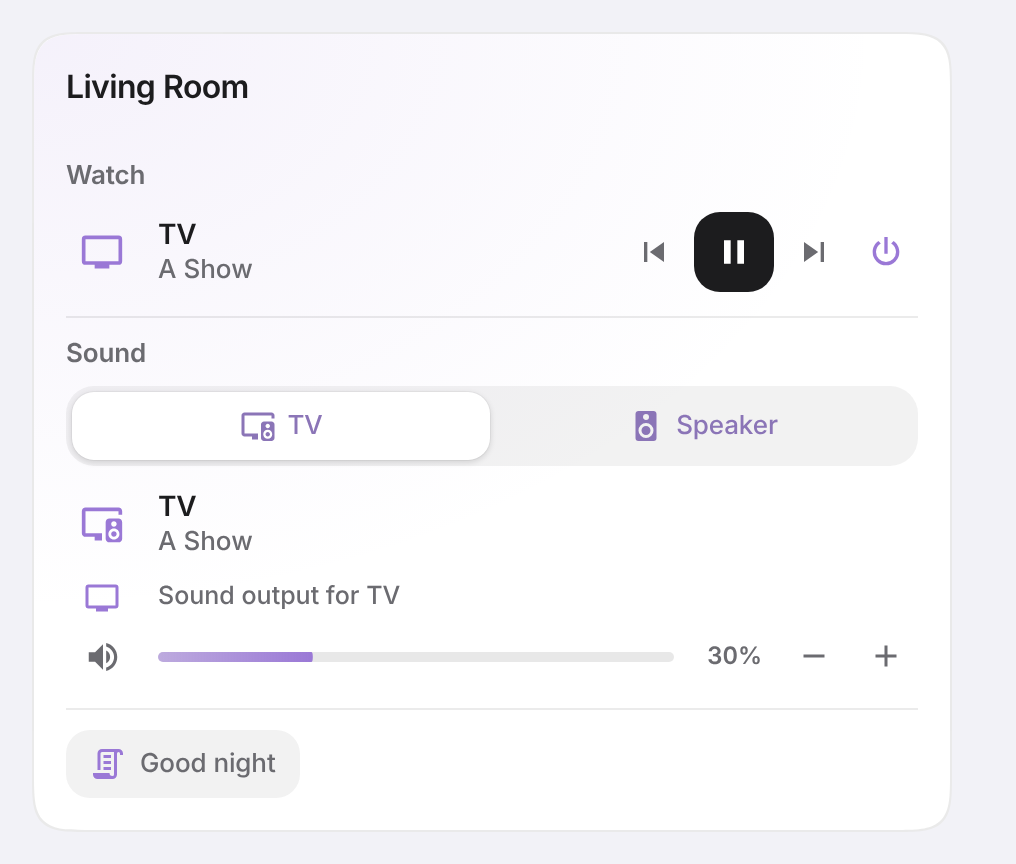
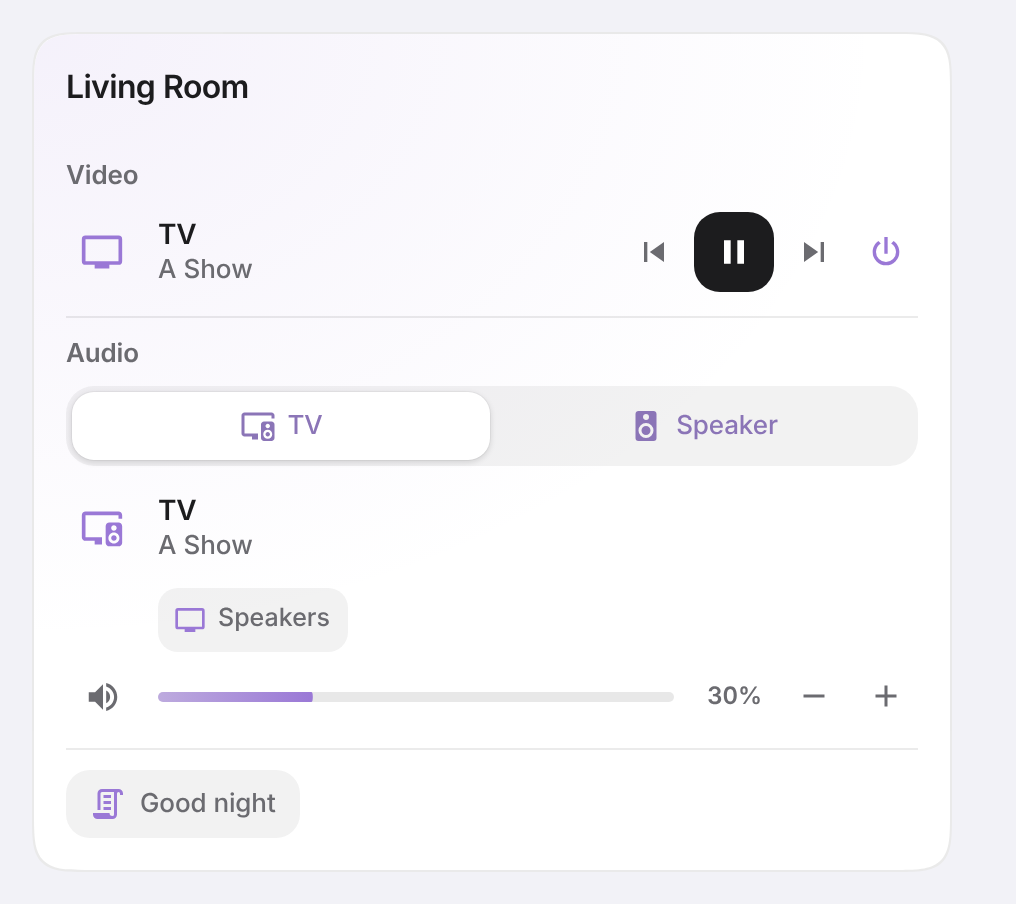
Media: short sound switches on one line under the name; switching sounds never jumps in height
The TV's sound output and the box's source are two small buttons aligned with the row's name, their full meaning in their labels. The row leaving goes at once instead of fading over the next, every sound row is as tall as its play key, and a picker that just appeared paints its highlight.

diff --git a/dist/savvy-cards.js b/dist/savvy-cards.js
@@ -15204,12 +15204,14 @@ const STYLE = `${BASE_CSS}
   button.via .chev { --mdc-icon-size: 16px; color: var(--secondary-text-color); margin-inline-start: -6px; }
   @media (hover: hover) { button.via:hover { background: var(--well); } }
   .via + .vol { margin-top: 4px; }
-  /* under a sound row: the screen it carries, its source; each a line in the rows' columns */
-  .lines { display: flex; flex-wrap: wrap; align-items: center; column-gap: 6px; margin-top: 8px; }
-  .lines .via { margin-top: 0; }
-  .lines .via:not([hidden]) ~ .via > ha-icon:first-child { width: auto; }
-  .lines .via:not([hidden]) ~ button.via { padding-inline-start: 8px; }
-  .lines + .vol { margin-top: 4px; }
+  /* under a sound row, starting where its name does: two small switches, the screen it carries and its source */
+  .lines { display: flex; flex-wrap: wrap; align-items: center; gap: 6px; margin: 8px 0 0 calc(var(--b-m) + 10px); }
+  .lines .via { margin: 0; height: var(--c-s); box-sizing: border-box; gap: 6px; padding: 0 9px 0 8px; border-radius: 10px; background: var(--well); max-width: 100%; }
+  .lines .via > ha-icon:first-child { width: auto; --mdc-icon-size: 16px; }
+  .lines button.via .chev { margin-inline-start: -2px; }
+  .lines + .vol { margin-top: 6px; }
+  /* every sound row is as tall as its play key, so switching between them never moves the card */
+  #audioBand .row .meta { min-height: var(--c-l); display: flex; flex-direction: column; justify-content: center; }
   .vol .bar { position: absolute; left: 0; right: 0; top: 50%; height: 5px; margin-top: -2.5px; border-radius: 99px; background: color-mix(in oklab, var(--primary-text-color) 10%, transparent); overflow: hidden; transform-origin: 50% 50%; }
   .vol .mute { flex: none; display: grid; place-items: center; width: var(--b-m); height: 32px; border-radius: 10px; color: var(--secondary-text-color); }
   .vol .mute ha-icon { --mdc-icon-size: 19px; display: flex; }
@@ -15421,15 +15423,19 @@ class SavvyMediaCard extends SavvyCard {
   }
 
   _measure() {
+    let snapped = false;
     const slide = (box, idx, x, w) => {
       const sel = box?.querySelectorAll(".seg:not([hidden])")[idx || 0];
-      if (!sel) return;
+      if (!sel || !sel.offsetWidth) return;
       const first = this._first || w.x === 0;
       x[first ? "snap" : "to"](sel.offsetLeft);
       w[first ? "snap" : "to"](sel.offsetWidth);
+      if (first) snapped = true;
     };
     slide(this._el?.sources, this._pickedIdx, this._sp.pill, this._sp.pillW);
     slide(this._el?.speakers, this._spkIdx, this._sp.spk, this._sp.spkW);
+    // a snap moves nothing the frame loop steps: a picker that just appeared is painted at once
+    if (snapped) requestAnimationFrame(() => this._paintAll(null));
   }
 
   // A volume bar. Nothing moves until a drag is clearly sideways, so a press, or a finger
@@ -15939,7 +15945,11 @@ class SavvyMediaCard extends SavvyCard {
       this._lines(row.querySelector(".lines"), cfg, carriers.get(cfg.__key));
       this._mountVolume(row, cfg, key);
     }
-    for (const [key, node] of el.audioBand.__rows || []) Motion.show(node, key === slug(shown?.__key || ""));
+    // one row at a time: the one leaving goes at once, so the band never holds two rows and jumps in height
+    for (const [key, node] of el.audioBand.__rows || []) {
+      if (key === slug(shown?.__key || "")) Motion.show(node, true);
+      else if (!node.hidden) { Motion.show(node, true); node.hidden = true; }
+    }
   }
 
   // Under a sound row: whose sound it is carrying (a button when the screen can switch its output),
@@ -15963,14 +15973,18 @@ class SavvyMediaCard extends SavvyCard {
       attr(b.querySelector("ha-icon"), "icon", icon);
       text(b.querySelector("span"), words);
     };
-    // order: the sound it carries first, then its source
+    // short words on the switches, the full meaning in their labels: the screen's sound first, then the source
     const choice = screen && this._soundChoice(screen);
     const screenName = screen && (screen.name || shortName(h, screen.entity, c.area));
-    line("sound", !!screen, "mdi:television", screen ? `Sound output for ${screenName}${choice?.current ? ` · ${choice.current.label}` : ""}` : "",
-      choice ? (anchor) => this._soundMenu(anchor, screen) : null);
+    const out = choice?.current?.label;
+    // on the TV's own row its name is already above: the switch says only where its sound goes
+    const soundWords = !screen ? "" : cfg.__tv ? out || "Speakers" : out ? `${screenName} · ${out}` : `Plays ${screenName}`;
+    line("sound", !!screen, "mdi:television", soundWords, choice ? (anchor) => this._soundMenu(anchor, screen) : null);
+    attr(box.querySelector('[data-line="sound"]'), "aria-label", screen ? `Sound output for ${screenName}: ${out || "this box"}${choice ? ". Change" : ""}` : null);
     const sources = !cfg.__tv && this._isOn(cfg) ? st?.attributes.source_list || [] : [];
     const src = st?.attributes.source;
-    line("source", sources.length > 1, "mdi:import", `Source · ${src || "None"}`, (anchor) => this._sourceMenu(anchor, cfg));
+    line("source", sources.length > 1, "mdi:import", src || "Source", (anchor) => this._sourceMenu(anchor, cfg));
+    attr(box.querySelector('[data-line="source"]'), "aria-label", `Source: ${src || "none"}. Change`);
     box.hidden = ![...box.children].some((n) => !n.hidden);
   }
 

diff --git a/src/cards/media.js b/src/cards/media.js
@@ -116,12 +116,14 @@ const STYLE = `${BASE_CSS}
   button.via .chev { --mdc-icon-size: 16px; color: var(--secondary-text-color); margin-inline-start: -6px; }
   @media (hover: hover) { button.via:hover { background: var(--well); } }
   .via + .vol { margin-top: 4px; }
-  /* under a sound row: the screen it carries, its source; each a line in the rows' columns */
-  .lines { display: flex; flex-wrap: wrap; align-items: center; column-gap: 6px; margin-top: 8px; }
-  .lines .via { margin-top: 0; }
-  .lines .via:not([hidden]) ~ .via > ha-icon:first-child { width: auto; }
-  .lines .via:not([hidden]) ~ button.via { padding-inline-start: 8px; }
-  .lines + .vol { margin-top: 4px; }
+  /* under a sound row, starting where its name does: two small switches, the screen it carries and its source */
+  .lines { display: flex; flex-wrap: wrap; align-items: center; gap: 6px; margin: 8px 0 0 calc(var(--b-m) + 10px); }
+  .lines .via { margin: 0; height: var(--c-s); box-sizing: border-box; gap: 6px; padding: 0 9px 0 8px; border-radius: 10px; background: var(--well); max-width: 100%; }
+  .lines .via > ha-icon:first-child { width: auto; --mdc-icon-size: 16px; }
+  .lines button.via .chev { margin-inline-start: -2px; }
+  .lines + .vol { margin-top: 6px; }
+  /* every sound row is as tall as its play key, so switching between them never moves the card */
+  #audioBand .row .meta { min-height: var(--c-l); display: flex; flex-direction: column; justify-content: center; }
   .vol .bar { position: absolute; left: 0; right: 0; top: 50%; height: 5px; margin-top: -2.5px; border-radius: 99px; background: color-mix(in oklab, var(--primary-text-color) 10%, transparent); overflow: hidden; transform-origin: 50% 50%; }
   .vol .mute { flex: none; display: grid; place-items: center; width: var(--b-m); height: 32px; border-radius: 10px; color: var(--secondary-text-color); }
   .vol .mute ha-icon { --mdc-icon-size: 19px; display: flex; }
@@ -333,15 +335,19 @@ class SavvyMediaCard extends SavvyCard {
   }
 
   _measure() {
+    let snapped = false;
     const slide = (box, idx, x, w) => {
       const sel = box?.querySelectorAll(".seg:not([hidden])")[idx || 0];
-      if (!sel) return;
+      if (!sel || !sel.offsetWidth) return;
       const first = this._first || w.x === 0;
       x[first ? "snap" : "to"](sel.offsetLeft);
       w[first ? "snap" : "to"](sel.offsetWidth);
+      if (first) snapped = true;
     };
     slide(this._el?.sources, this._pickedIdx, this._sp.pill, this._sp.pillW);
     slide(this._el?.speakers, this._spkIdx, this._sp.spk, this._sp.spkW);
+    // a snap moves nothing the frame loop steps: a picker that just appeared is painted at once
+    if (snapped) requestAnimationFrame(() => this._paintAll(null));
   }
 
   // A volume bar. Nothing moves until a drag is clearly sideways, so a press, or a finger
@@ -851,7 +857,11 @@ class SavvyMediaCard extends SavvyCard {
       this._lines(row.querySelector(".lines"), cfg, carriers.get(cfg.__key));
       this._mountVolume(row, cfg, key);
     }
-    for (const [key, node] of el.audioBand.__rows || []) Motion.show(node, key === slug(shown?.__key || ""));
+    // one row at a time: the one leaving goes at once, so the band never holds two rows and jumps in height
+    for (const [key, node] of el.audioBand.__rows || []) {
+      if (key === slug(shown?.__key || "")) Motion.show(node, true);
+      else if (!node.hidden) { Motion.show(node, true); node.hidden = true; }
+    }
   }
 
   // Under a sound row: whose sound it is carrying (a button when the screen can switch its output),
@@ -875,14 +885,18 @@ class SavvyMediaCard extends SavvyCard {
       attr(b.querySelector("ha-icon"), "icon", icon);
       text(b.querySelector("span"), words);
     };
-    // order: the sound it carries first, then its source
+    // short words on the switches, the full meaning in their labels: the screen's sound first, then the source
     const choice = screen && this._soundChoice(screen);
     const screenName = screen && (screen.name || shortName(h, screen.entity, c.area));
-    line("sound", !!screen, "mdi:television", screen ? `Sound output for ${screenName}${choice?.current ? ` · ${choice.current.label}` : ""}` : "",
-      choice ? (anchor) => this._soundMenu(anchor, screen) : null);
+    const out = choice?.current?.label;
+    // on the TV's own row its name is already above: the switch says only where its sound goes
+    const soundWords = !screen ? "" : cfg.__tv ? out || "Speakers" : out ? `${screenName} · ${out}` : `Plays ${screenName}`;
+    line("sound", !!screen, "mdi:television", soundWords, choice ? (anchor) => this._soundMenu(anchor, screen) : null);
+    attr(box.querySelector('[data-line="sound"]'), "aria-label", screen ? `Sound output for ${screenName}: ${out || "this box"}${choice ? ". Change" : ""}` : null);
     const sources = !cfg.__tv && this._isOn(cfg) ? st?.attributes.source_list || [] : [];
     const src = st?.attributes.source;
-    line("source", sources.length > 1, "mdi:import", `Source · ${src || "None"}`, (anchor) => this._sourceMenu(anchor, cfg));
+    line("source", sources.length > 1, "mdi:import", src || "Source", (anchor) => this._sourceMenu(anchor, cfg));
+    attr(box.querySelector('[data-line="source"]'), "aria-label", `Source: ${src || "none"}. Change`);
     box.hidden = ![...box.children].some((n) => !n.hidden);
   }
 

diff --git a/README.md b/README.md
@@ -668,17 +668,18 @@ picking an input switches the TV to it.
 
 **Every sound sits at the bottom, under Audio.** The TV's own speakers (its volume) while it plays through them,
 the soundbar, the speakers: one row at a time, with a picker when there are two or more. The soundbar is always
-there with its transport, power, volume and source (tap "Source" to switch it: TV, HDMI, Bluetooth, whatever it
-lists). The row carrying the TV's sound says so ("Sound output for TV"), so you always know which bar moves what
-you hear; the picker starts on it while the TV is on. When the TV sends its sound to the soundbar you name in
+there with its transport, power and volume. Under its name sit two small switches: the TV's sound (`TV · HDMI ARC`,
+on the row carrying it, so you always know which bar moves what you hear) and the box's own source (`Optical`,
+`Bluetooth`, whatever it lists; tap to switch it). The picker starts on the row carrying the TV's sound while the
+TV is on. When the TV sends its sound to the soundbar you name in
 `video_output` (eARC), that row is the soundbar's, with its real level; when the TV plays through itself, it is
 the TV's. One box never shows two bars. Nothing is guessed: without `video_output` the TV plays through itself.
 `screen_frame: true` puts the screen on its own row above its inputs instead.
 
 <picture><source media="(prefers-color-scheme: light)" srcset="docs/images/media-light.png"><img src="docs/images/media-dark.png" width="460" alt="Savvy media card with artwork"></picture>
 
-**Switch where the TV's sound goes.** On an LG TV (the webOS integration) the "Sound output for TV" line is a
-button: tap it for TV speaker, HDMI ARC, Optical, Bluetooth and the rest, the current one marked. On its own
+**Switch where the TV's sound goes.** On an LG TV (the webOS integration) the `TV · …` switch under the row
+carrying the TV's sound opens its outputs: TV speaker, HDMI ARC, Optical, Bluetooth and the rest, the current one marked. On its own
 speaker the row is the TV's; on ARC or optical it is the soundbar's. Any other TV whose integration
 has a select entity for its sound output works the same with `sound_select`.
 

diff --git a/CHANGELOG.md b/CHANGELOG.md
@@ -4,6 +4,12 @@
 
 - **Presence shows a person, not a house,** everywhere: badges, chips and rows for occupancy and presence sensors
   use the same figure as motion, crossed out while nobody is there. A sensor with an icon of its own keeps it.
+- **Media: the sound row's switches are short and line up.** The TV's sound output and the box's source are two
+  small buttons on one line under the name (`TV · HDMI ARC`, `Optical/HDMI ARC`), each with its full meaning
+  for screen readers, instead of two long lines that wrapped out of line.
+- **Media: switching between sounds no longer jumps.** The row that leaves goes at once instead of fading while
+  the next one fades in, every sound row is the same height, and the picker's highlight shows as soon as the
+  picker appears.
 - **Lights card: the ceiling light comes first,** before the rest by name. A light named Ceiling is first on a card with
   no `order`; with one, your listed lights come first, then the ceiling.
 
